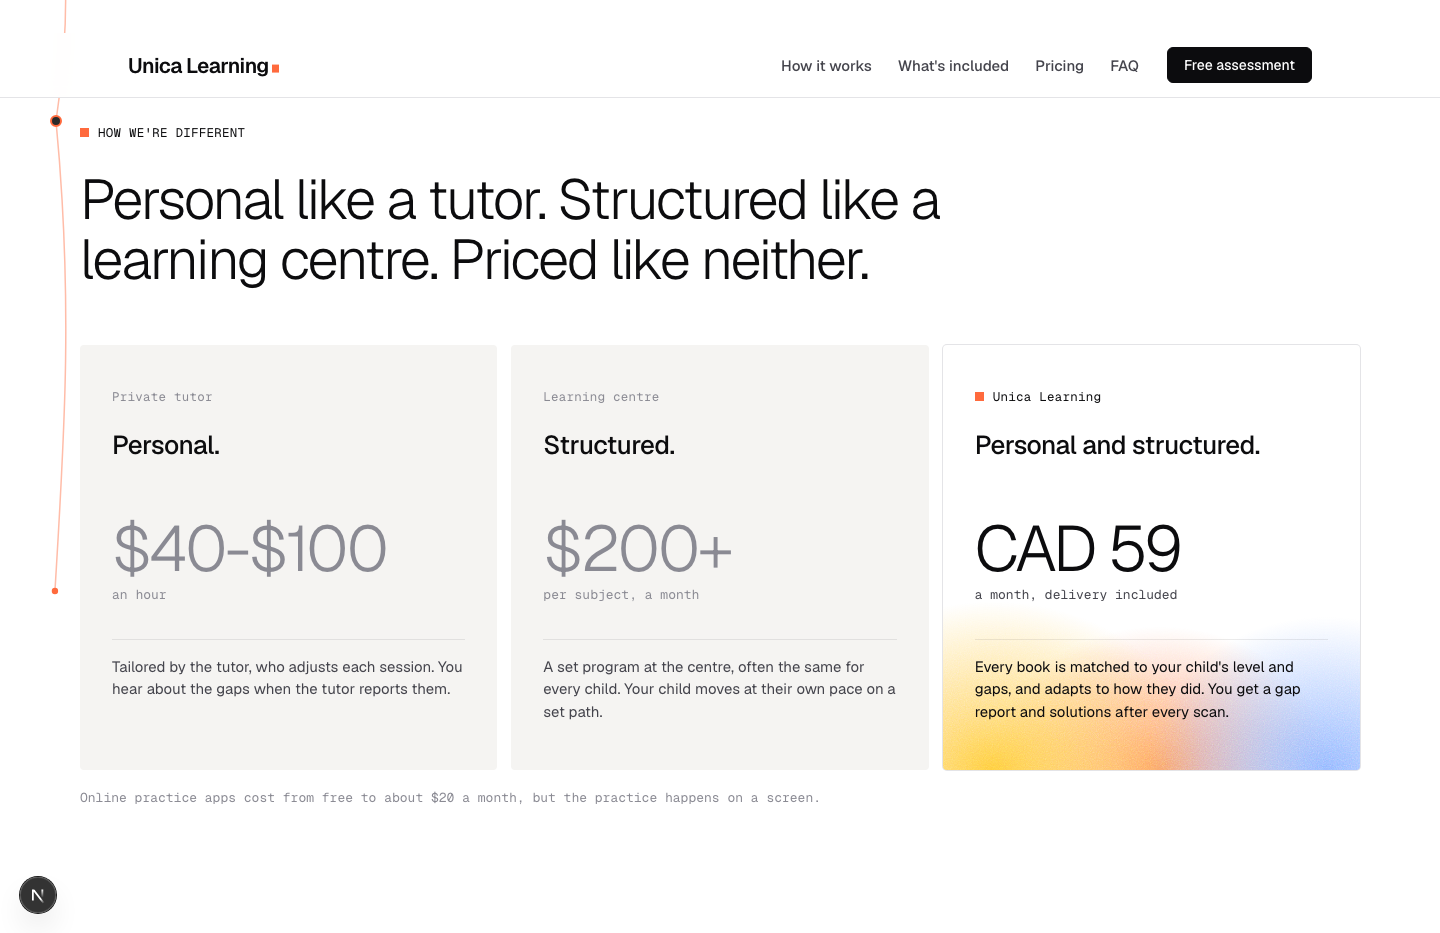
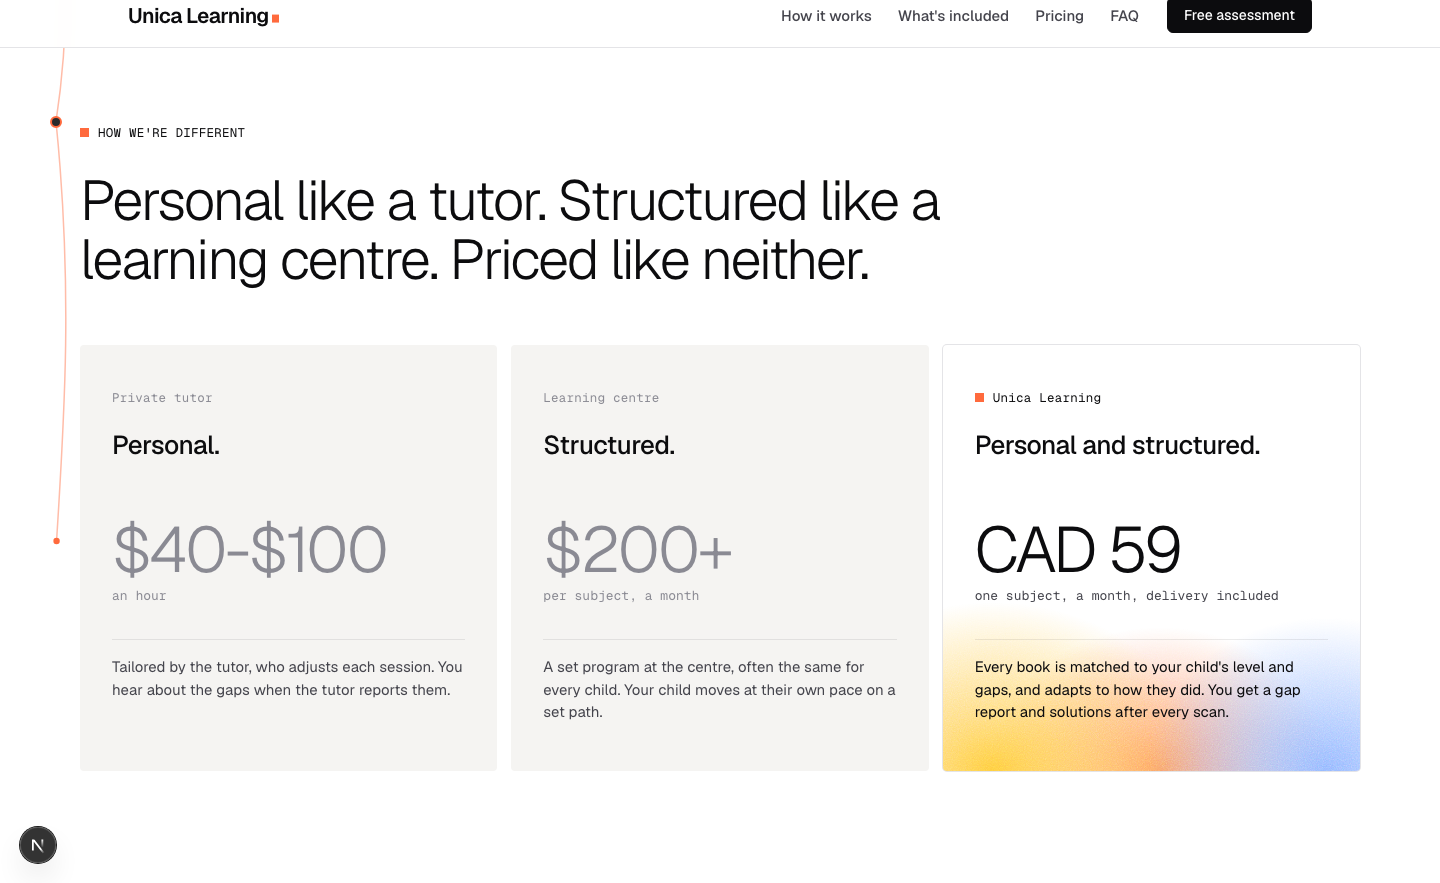
How we're different: drop the apps line; CAD 59 says one subject (D-068)

diff --git a/src/components/compare.tsx b/src/components/compare.tsx
@@ -9,7 +9,7 @@ import "@/ds/styles/compare.css";
 const PANELS = [
   { who: "Private tutor", trait: "Personal.", price: "$40-$100", unit: "an hour", text: "Tailored by the tutor, who adjusts each session. You hear about the gaps when the tutor reports them." },
   { who: "Learning centre", trait: "Structured.", price: "$200+", unit: "per subject, a month", text: "A set program at the centre, often the same for every child. Your child moves at their own pace on a set path." },
-  { who: BRAND, trait: "Personal and structured.", price: `CAD ${PLANS.one.price}`, unit: "a month, delivery included", text: "Every book is matched to your child's level and gaps, and adapts to how they did. You get a gap report and solutions after every scan.", us: true },
+  { who: BRAND, trait: "Personal and structured.", price: `CAD ${PLANS.one.price}`, unit: "one subject, a month, delivery included", text: "Every book is matched to your child's level and gaps, and adapts to how they did. You get a gap report and solutions after every scan.", us: true },
 ];
 
 export function Compare() {
@@ -29,7 +29,6 @@ export function Compare() {
           </Rise>
         ))}
       </ul>
-      <Rise as="p" className="cmp-foot" d={0.24}>Online practice apps cost from free to about $20 a month, but the practice happens on a screen.</Rise>
     </Section>
   );
 }

diff --git a/src/ds/styles/compare.css b/src/ds/styles/compare.css
@@ -30,7 +30,6 @@
 .cmp .us .cmp-price span { color: var(--ink-2); }
 .cmp-txt { margin-top: 18px; padding-top: 16px; border-top: 1px solid rgba(0, 0, 0, 0.08); font-size: 15px; line-height: 1.5; color: var(--ink-2); }
 .cmp .us .cmp-txt { color: var(--ink); }
-.cmp-foot { margin-top: 18px; font: 400 13px/1.5 var(--mono); color: var(--ink-3); }
 
 @media (max-width: 899px) {
   .cmp { grid-template-columns: minmax(0, 1fr); }

diff --git a/DESIGN.md b/DESIGN.md
@@ -32,7 +32,7 @@
 
 ## Positioning rules
 
-- Name no competitor brand. Compare against categories only: learning centres, private tutors and online practice apps, in the "How we're different" section, the FAQ "How is this different from a learning centre?" and the `/our-story` letter (D-059, D-064). Keep claims general and true for the category ("About $200+ per subject / month"); sources in `.design/research/competitors-2026-10.md`. Everywhere else, show the difference as what we do: paper, at home, made for one child, it adapts.
+- Name no competitor brand. Compare against categories only: learning centres, private tutors and online practice apps, in the "How we're different" section (learning centres and private tutors only, D-068), the FAQ "How is this different from a learning centre?" and the `/our-story` letter (D-059, D-064). Keep claims general and true for the category ("About $200+ per subject / month"); sources in `.design/research/competitors-2026-10.md`. Everywhere else, show the difference as what we do: paper, at home, made for one child, it adapts.
 - Lead with emotion and a bold claim, but name the product in the line under it. The section right after the hero answers "What is [Brand]?" by naming the problem first: the same box (D-058). Curriculum copy says the books cover the school curriculum at the child's pace and move ahead when ready; province availability lives in the FAQ.
 - End on a bold claim: "This is what learning should be like." It carries three lines: "Every child learns differently. Learning should adapt."; "No child should fall behind because the class moved on."; "Personal, on paper, and affordable." (D-057, replaces the D-016 beliefs).
 - No learning styles anywhere (D-004), except the hero lead, where Savar chose to name them (D-066).
@@ -54,7 +54,7 @@ Every section sets up the next one. A single pencil line connects the sections a
 5. **What you get each month (D-061, D-062).** Six cards, 3 + 3 around one photo: workbooks (1 per subject, about 20-25 pages), daily practice (15-20 minutes, 5 days a week), delivery before the current book ends, "Stuck? Scan it." (the parent scans the problem in our app and sees every step, explained, so they can walk the child through it), "Instant answer check" (scan a finished page, see what is right in seconds; each scan also helps plan the next book), progress reports and worked solutions in the app.
 6. **The emotional banner.** Real photos drift around one centred line: "A workbook made for one child: yours." "No two [Brand] books are the same. Each one starts where your child is, and moves on when they're ready."
 7. **Our promise (D-044, D-060).** "Try it with nothing to lose." A nameless line (made in Vancouver by a small team who grew up on paper workbooks), a link "Read why we built it" to `/our-story`, and two cards: 30-day money-back guarantee and fits your family's schedule. The free assessment and cancel anytime are stated in pricing.
-8. **How we're different (D-059, D-064, D-067).** "Personal like a tutor. Structured like a learning centre. Priced like neither." The headline becomes three panels: private tutor ("Personal.", about $40-$100 an hour), learning centre ("Structured.", about $200+ per subject a month) and [Brand] ("Personal and structured.", CAD 59 a month, delivery included). Each panel has a mono label, a one-word trait, one large price, and one or two sentences of what you get. The two other panels are soft grey with grey prices; ours is white with the featured plan's grainy wash (D-037). One mono line under the panels covers online practice apps (free to about $20 a month, on a screen). On phones the panels stack and ours comes first. No table.
+8. **How we're different (D-059, D-064, D-067, D-068).** "Personal like a tutor. Structured like a learning centre. Priced like neither." The headline becomes three panels: private tutor ("Personal.", about $40-$100 an hour), learning centre ("Structured.", about $200+ per subject a month) and [Brand] ("Personal and structured.", CAD 59 for one subject a month, delivery included). Each panel has a mono label, a one-word trait, one large price, and one or two sentences of what you get. The two other panels are soft grey with grey prices; ours is white with the featured plan's grainy wash (D-037). On phones the panels stack and ours comes first. No table.
 9. **Price and reserve.** Both plan cards are white; Math + Reading stands out with a grainy colour wash rising from the bottom (D-037). No savings badge and no fine print under the cards; the charge timing is stated in checkout. Two plans: one subject CAD 59 a month, math + reading CAD 99 a month, delivery included, cancel anytime, a 30-day money-back guarantee stated once above the cards (D-043, D-057). A BC family adds a card at booking on Stripe's hosted page and is charged nothing. The first month is charged when the first workbook ships, then monthly until they cancel (D-053).
 10. **FAQ (D-057).** First: how the work is checked, what if it is not right, how this differs from a learning centre, what if my child struggles a lot. Then: screen time, who it is for, the free assessment, what the books cover, curriculum, breaks, missed days, missed photos, the child's work, why we ask for a card, cancelling, delivery.
 11. **Closing claim.** The three lines above, "This is what learning should be like.", then "Take free assessment" and "See pricing".

diff --git a/.design/decisions.md b/.design/decisions.md
@@ -71,3 +71,4 @@ Keep history here; keep `DESIGN.md` current.
 | D-065 | 2026-10-08 | rejected | Comparison table redesign, round r5: A our answer first, B plan-style cards, C head to head | Savar kept the current table (PR #22) | .design/experiments/r5/ | - |
 | D-066 | 2026-10-09 | accepted | Hero copy: small line "Math and reading workbooks, ages 6-12"; headline "Your child isn't a grade level."; lead names the three problems (level, pace, learning style) and the product (one child, printed, mailed home); fact line drops the facts now in the small line and adds "Cancel anytime"; CTA stays "Take free assessment"; share card updated. Learning styles named on purpose | Savar: old hero did not say the problem; picked #2 headline with #6 framing after research (unknown brand must say what it sells; "your child" framing; mechanism in the lead). Savar chose to name learning styles, overriding D-004 for the hero | .design/research/hero-copy-research.md; .design/experiments/r6/hero-copy.html | D-057, D-004 (hero only) |
 | D-067 | 2026-10-09 | accepted | "How we're different" becomes three panels (variant A of 5 in round r7): private tutor, learning centre, [Brand], each with a one-word trait, one large price and one or two sentences; online practice apps in one line under the panels; our panel white with the D-037 wash; on phones ours comes first | Savar: the table felt off. Diagnosis: 20 prose cells with no verdict, competitor cells read as wins, weak our-column wash, price row buried; tech-style comparison grids suit software buyers, not parents. A turns the headline into the comparison and leads with price. Rejected: B cost bars and E receipts (both need a $160-$400 tutor month that our research does not state), C one sentence (too thin), D verdict grid (still a grid) | .design/experiments/r7/ (prototype PR #31, branch site/compare-prototype); references .design/research/compare-table-refs/ | D-059 table format |
+| D-068 | 2026-10-09 | accepted | "How we're different": remove the online practice apps line under the panels; our price unit says "one subject, a month, delivery included" | Savar: the apps line is not needed; CAD 59 is the one-subject price, so say so | chat | D-067 apps line |
